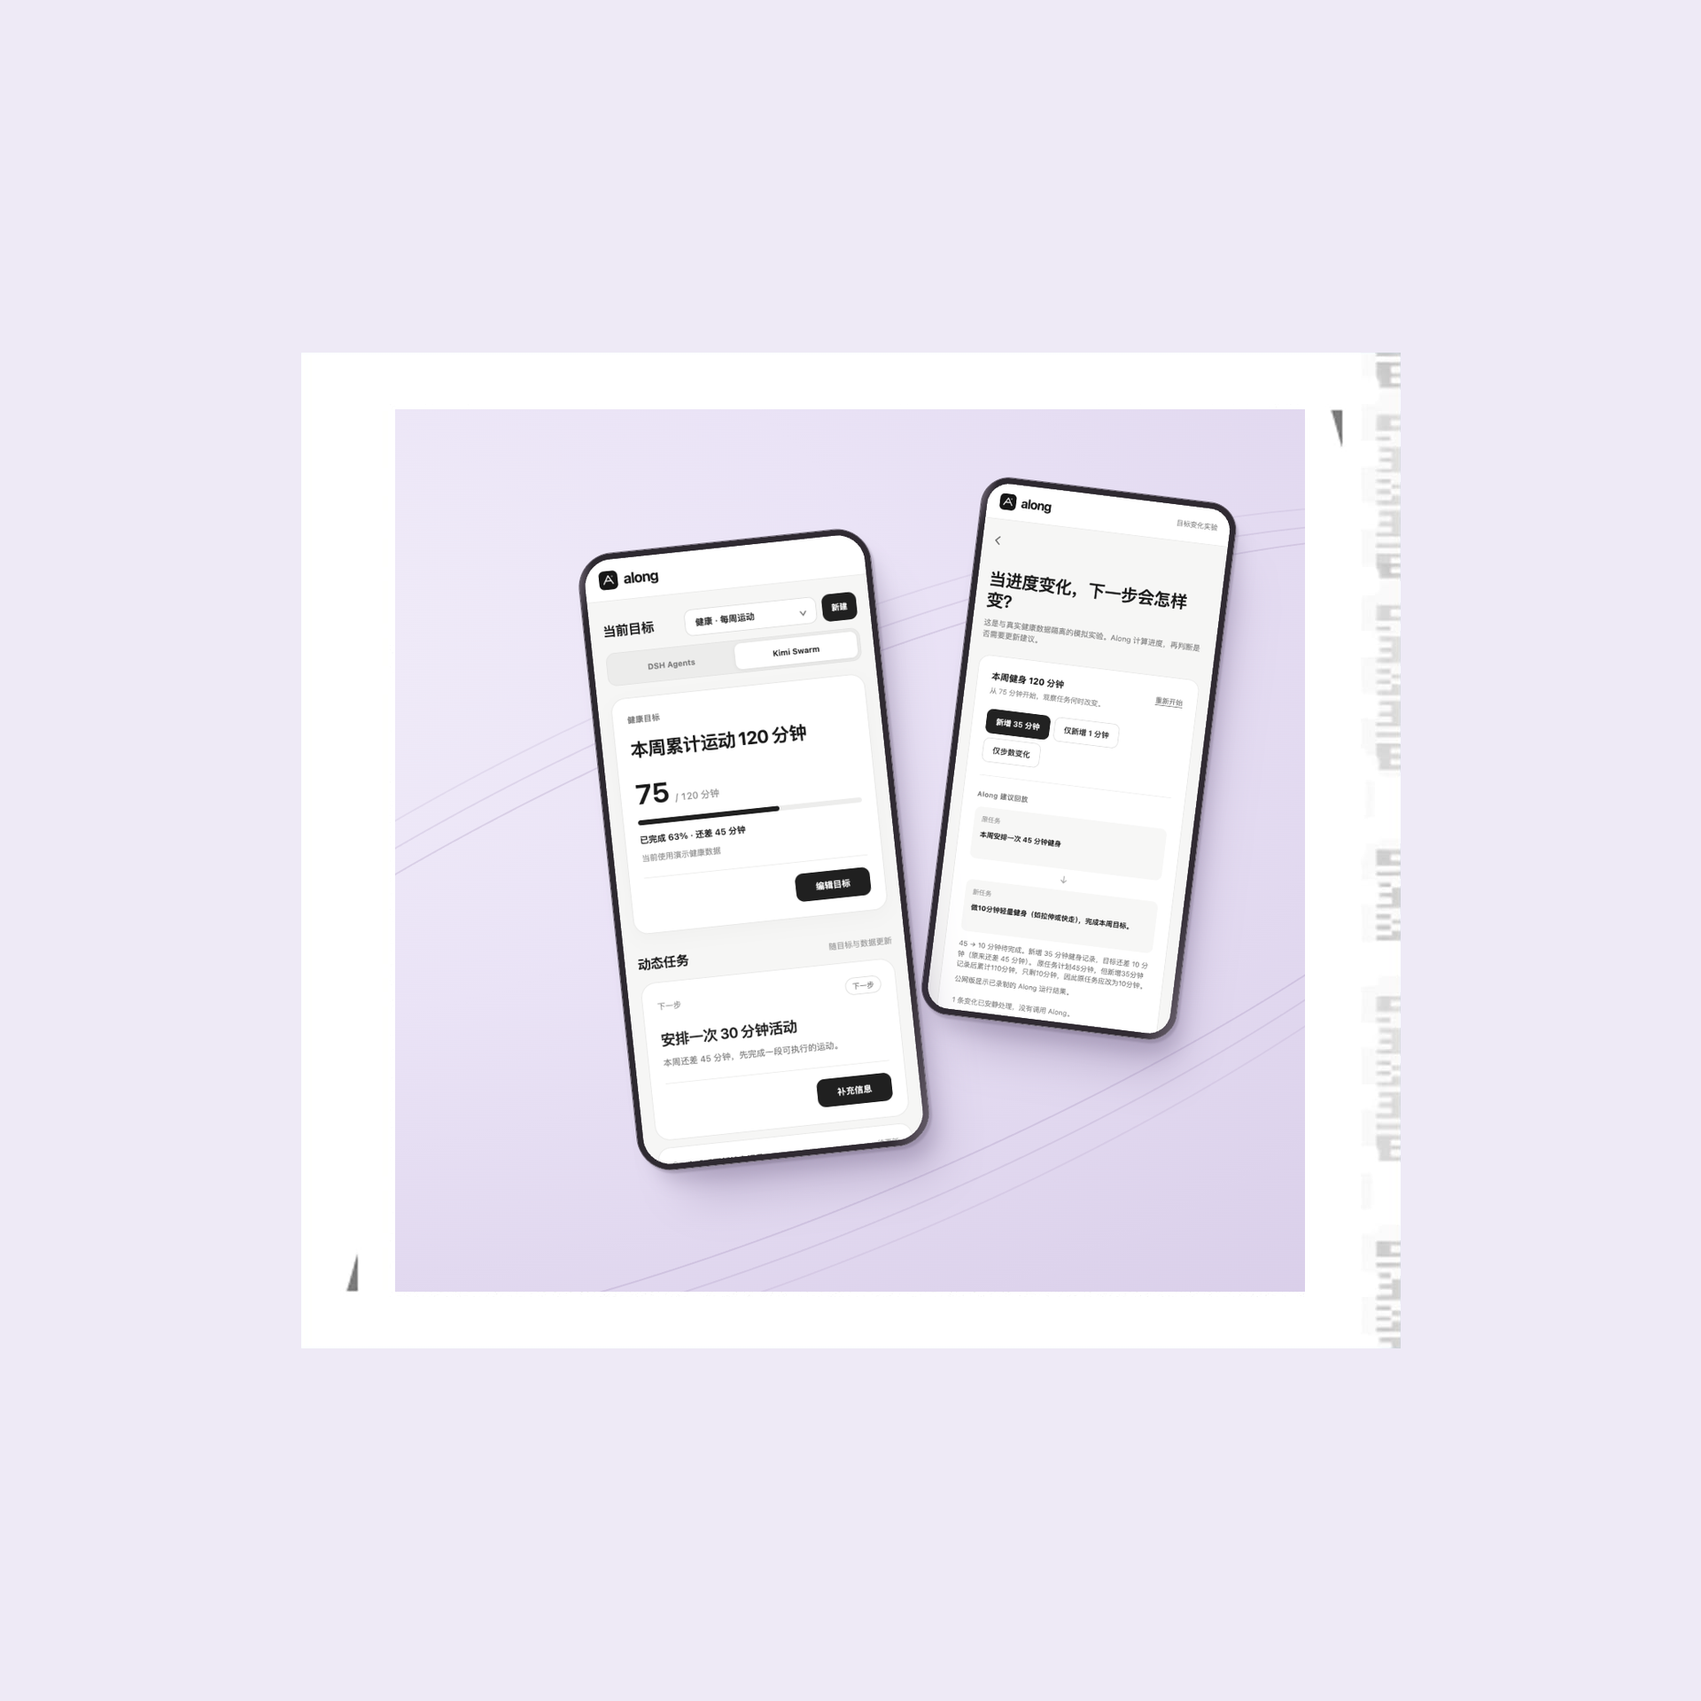
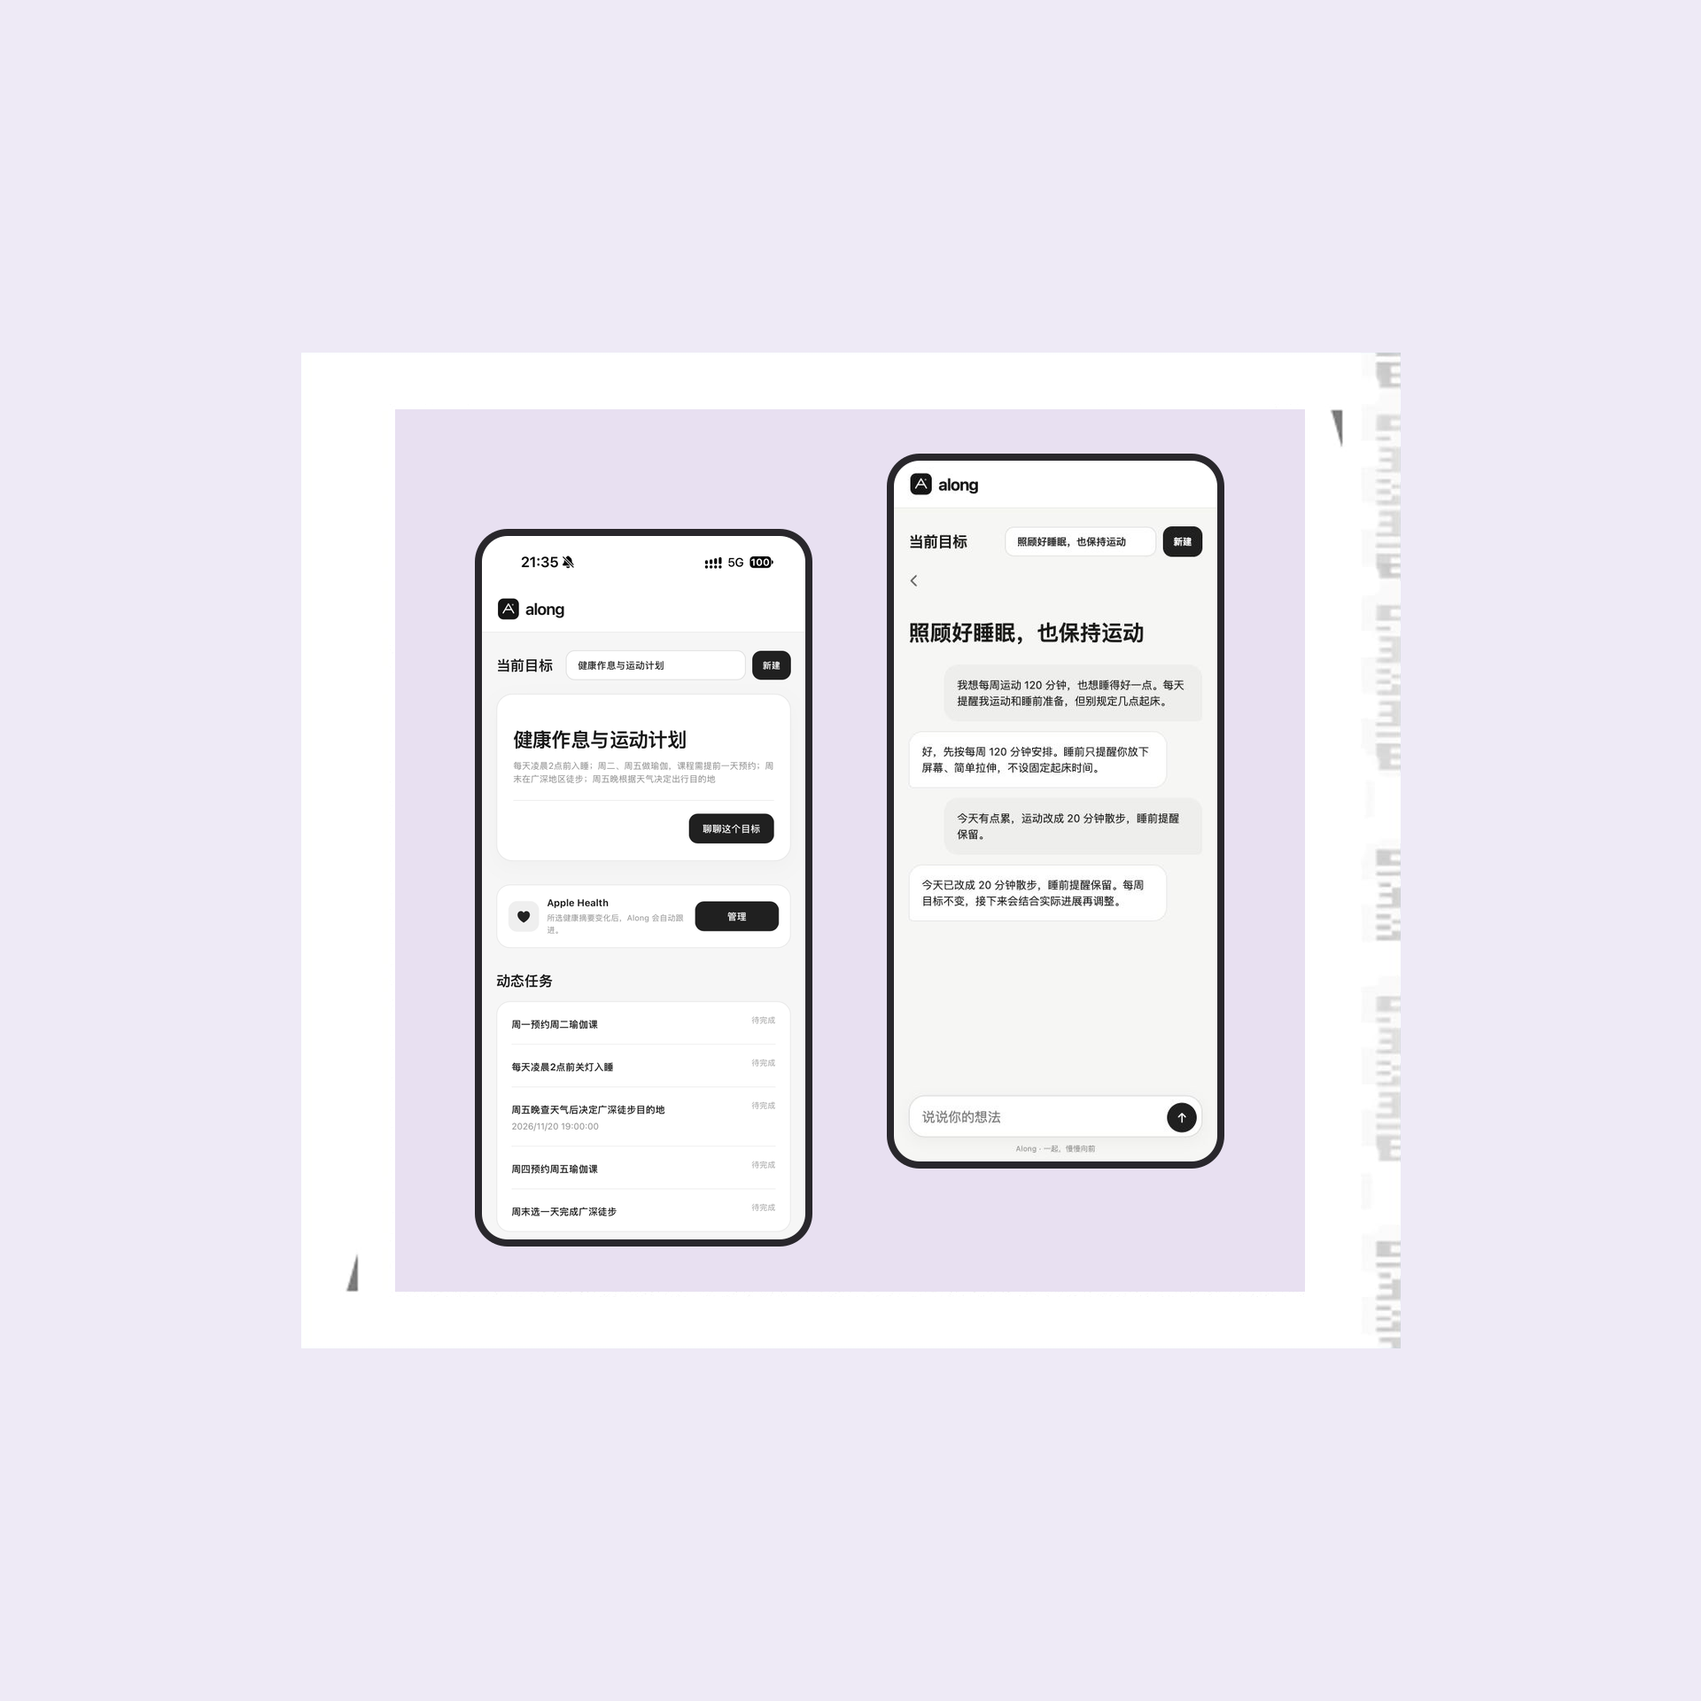
feat(along): refresh case study with current agent flows and iPhone screenshots (#9)

Changed region(s): [[0.2812, 0.25, 0.75, 0.75]]

diff --git a/layouts/ux-web3/along.html b/layouts/ux-web3/along.html
@@ -4,11 +4,11 @@
 {{ $style := resources.Get "css/along.css" | minify | fingerprint }}
 <link rel="stylesheet" href="{{ $style.RelPermalink }}">
 
-<section class="site-work-detail">
+<section class="site-work-detail along-case">
   {{ partial "work/detail-front.html" (dict
     "backgroundImage" "/images/ux-web3/along/hero.webp"
     "title" "A Personal Goal Agent"
-    "description" "Along revisits a goal as your week unfolds. You decide which changes to make to your plan."
+    "description" "A conversation becomes a plan. Along follows what changes and brings you back when it is time to act."
     "buttonHref" "#problem-space"
     "buttonLabel" "Read the Case"
   ) }}
@@ -17,55 +17,49 @@
     <div class="container">
       <div class="site-work-detail-page-header">
         <h3>Problem Space</h3>
-        <p>You’ve planned two walks. One is a reminder to catch up on exercise. The other is a date with a friend. By the time you’ve met your weekly goal, only one of those walks has lost its purpose.</p>
-        <p>I designed Along to keep track of why a task exists. It can suggest a change, explain what prompted it, and leave the decision with you.</p>
+        <p>“I want to move more and sleep better” sounds simple. Keeping it going means noticing what changed: a tiring day, a workout already done, or a reminder that no longer fits.</p>
+        <p>I designed Along around that continuing conversation. The goal keeps its context, the next action can change, and the person can correct the plan in their own words.</p>
       </div>
-    </div>
-  </div>
-
-  <div id="walks" class="site-work-detail-page-template">
-    <div class="container">
-      <div class="site-work-detail-page-template-header">
-        <h3>01. Which Walk Would You Cancel?</h3>
-        <p>In this simulated week, four exercise sessions add up to 195 minutes against a goal of 180. Along proposes removing the catch-up reminder. The person can accept the edit or keep the original tasks.</p>
-      </div>
-      <fieldset class="along-review site-work-detail-page-template-chart-with-content-text">
-        <legend class="sr-only">Plan review</legend>
-        <input id="along-before" type="radio" name="along-review" checked>
-        <label for="along-before">Proposed change</label>
-        <input id="along-after" type="radio" name="along-review">
-        <label for="along-after">After acceptance</label>
-        <figure class="along-before site-work-detail-page-template-chart">
-          <a href="/images/ux-web3/along/review-proposal.webp" aria-label="Open original plan proposal screenshot"><img src="/images/ux-web3/along/review-proposal.webp" alt="Along offers to remove a catch-up exercise reminder after the weekly goal has been met." width="714" height="928" loading="lazy" decoding="async"></a>
-          <figcaption>The proposal explains the 195-minute total and identifies the reminder it would remove.</figcaption>
-        </figure>
-        <figure class="along-after site-work-detail-page-template-chart">
-          <a href="/images/ux-web3/along/review-applied.webp" aria-label="Open original updated task list screenshot"><img src="/images/ux-web3/along/review-applied.webp" alt="The updated task list still shows the planned weekend walk with a friend." width="714" height="542" loading="lazy" decoding="async"></a>
-          <figcaption>After acceptance, the catch-up reminder is gone. The weekend walk with a friend still has its place in the plan.</figcaption>
-        </figure>
-      </fieldset>
     </div>
   </div>
 
   <div class="site-work-detail-page-template">
     <div class="container">
       <div class="site-work-detail-page-template-header">
-        <h3>02. Inside the Prototype</h3>
-        <h4>From a goal to the next ten minutes</h4>
-        <p>You can describe a new goal in your own words, including your timing and preferences. The exercise demo starts with a goal of 120 minutes of movement this week.</p>
-        <p>With 75 minutes logged, the plan has 45 minutes left. Add a 35-minute workout and Along shortens the suggested walk to ten minutes.</p>
+        <h3>01. Keep the Goal, Change the Next Step</h3>
+        <p>“I’m tired today. Make it a twenty-minute walk, but keep the bedtime reminder.” A change like this belongs in the conversation where the goal began.</p>
+        <p>The current app turns an explicit request into a goal and tasks. Changes take effect after programmatic checks, and the person uses chat to correct them. Saying “I haven’t been sleeping well” starts a conversation; it does not automatically create a goal.</p>
       </div>
       {{ partial "work/two-chart.html" (dict
         "class" "along-screens"
         "images" (slice
-          (dict "src" "/images/ux-web3/along/goal-draft.webp" "alt" "Early iPhone build showing a blank custom goal and a prompt to start with one sentence." "captionHtml" "Goal entry · Early iPhone build · <a href='/images/ux-web3/along/goal-draft.webp'>Open screenshot</a>")
-          (dict "src" "/images/ux-web3/along/replan.webp" "alt" "Exercise replay comparing the original 45-minute walk with a 10-minute suggestion after a workout." "captionHtml" "Exercise replay · Web prototype with sample data · <a href='/images/ux-web3/along/replan.webp'>Open screenshot</a>")
+          (dict "src" "/images/ux-web3/along/current-chat.webp" "alt" "Current Along chat interface showing a request to change today's exercise to a twenty-minute walk while keeping the bedtime reminder." "captionHtml" "Change the plan in chat · Current app UI with a sample conversation · <a href='/images/ux-web3/along/current-chat.webp'>Open screenshot</a>")
+          (dict "src" "/images/ux-web3/along/iphone-goal-plan.webp" "alt" "Actual Along iPhone goal page showing a sleep and exercise plan, an authorized Apple Health connection, yoga class booking and a weather check before a weekend hike." "captionHtml" "A plan for the week · Actual iPhone screenshot, November 16 · <a href='/images/ux-web3/along/iphone-goal-plan.webp'>Open screenshot</a>")
         )
       ) }}
       <div class="site-work-detail-page-template-header">
-        <h4>What the agent gets to see</h4>
-        <p>On iPhone, the person chooses which Apple Health summaries to share. Along sends the selected observations and the current plan to a paired Mac for review. The web demo uses sample data.</p>
-        <p>In one iPhone check, the observations matched the last review. Along kept all three existing tasks.</p>
+        <p>The chat screen is a browser capture of the November 16 app code with a staged conversation. The goal screen is an actual iPhone capture: yoga bookings, a sleep routine and a weather check before a weekend hike sit together in one plan.</p>
+      </div>
+    </div>
+  </div>
+
+  <div id="reminders" class="site-work-detail-page-template">
+    <div class="container">
+      <div class="site-work-detail-page-template-header">
+        <h3>02. A Reminder That Remembers the Request</h3>
+        <p>The bedtime reminder says to dim the lights, put down the screen and wind down at your own pace. It also preserves a preference: no fixed lights-out or wake-up time. The exercise reminder keeps the next step small: twenty minutes, at your own pace.</p>
+      </div>
+      {{ partial "work/two-chart.html" (dict
+        "class" "along-notifications"
+        "images" (slice
+          (dict "src" "/images/ux-web3/along/notification-sleep.webp" "alt" "Along iPhone notification reminding the person to dim the lights, put down the screen and prepare for sleep without a fixed bedtime or wake-up time." "captionHtml" "Bedtime preparation · Actual iPhone notification, November 11 · <a href='/images/ux-web3/along/notification-sleep.webp'>Open crop</a>")
+          (dict "src" "/images/ux-web3/along/notification-movement.webp" "alt" "Along iPhone notification saying there are twenty minutes of exercise planned today, to begin at the person's own pace." "captionHtml" "Today's movement · Actual iPhone notification, November 11 · <a href='/images/ux-web3/along/notification-movement.webp'>Open crop</a>")
+        )
+      ) }}
+      <div class="site-work-detail-page-template-header">
+        <h4>Getting back to the action matters too</h4>
+        <p>The latest version connects a scheduled notification to its task. In the iOS Simulator, a reminder arrived while the app was in the background; tapping it opened the matching task. An upgrade replay also checked that a reminder scheduled by the old app still opened its saved task after the update.</p>
+        <p>The real iPhone notifications above come from an earlier build. The latest app has been installed on the paired iPhone and its saved tasks reopened there; the latest notification delivery and tap-through flow still needs a device check. Remote push delivery while the app is suspended also remains unverified.</p>
       </div>
     </div>
   </div>
@@ -73,15 +67,51 @@
   <div class="site-work-detail-page-template">
     <div class="container">
       <div class="site-work-detail-page-template-header">
-        <h3>03. Agent Evaluation</h3>
-        <h4>What did Along know at the time?</h4>
-        <p>I shaped an evaluation around 54 synthetic decision cases across exercise, savings and Cantonese practice. Each replay gives the agent only the information available when it has to decide what to do next.</p>
-        <p>In the Cantonese listening test, a learner understands four of five new phrases and answers one of three aloud. Change one detail and the next practice session should change with it.</p>
+        <h3>03. Follow Progress Without Another Prompt</h3>
+        <p>Completing a workout should not require a second conversation just to update the plan. On iPhone, the person chooses which Apple Health summaries Along can use. Relevant changes can then trigger a review of an existing goal.</p>
+        <p>In an isolated test with a real model and synthetic health summaries, the agent removed an outdated “45 minutes still to do” task after reading the new exercise total. The goal stayed in place, and the validated task change took effect automatically.</p>
       </div>
       {{ partial "work/two-text.html" (dict "columns" (slice
-        (dict "title" "Subtitles off" "paragraphs" (slice "The learner understood the audio. Spend the next session practising a spoken reply."))
-        (dict "title" "Subtitles on" "paragraphs" (slice "Reading may have helped. Try new phrases from a different speaker with the text hidden."))
+        (dict "title" "Keep ordinary changes quiet" "paragraphs" (slice
+          "New facts can update the goal without becoming a notification. A review can keep the plan, change a task or ask for missing information. Reaching a scheduled time does not mean the person completed the action."
+        ))
+        (dict "title" "Respect the phone’s limits" "paragraphs" (slice
+          "Raw HealthKit samples stay on the phone. Selected summaries are queued for upload, including during background opportunities granted by iOS. Natural health changes, locked-screen wake-up and offline recovery still need end-to-end device validation."
+        ))
       )) }}
+    </div>
+  </div>
+
+  <div class="site-work-detail-page-template">
+    <div class="container">
+      <div class="site-work-detail-page-template-header">
+        <h3>04. Give the Agent Context and Boundaries</h3>
+        <p>The phone handles conversation, health permissions and reminders. A paired Mac stores the goal and runs Along Agent on DeepSeek Harness. A Router connects new input to the right work; a Worker reads the relevant context and proposes structured changes. Code checks ownership, scope and versions before anything becomes part of the plan.</p>
+      </div>
+      {{ partial "work/two-text.html" (dict "columns" (slice
+        (dict "title" "Remember what should carry forward" "paragraphs" (slice
+          "Scheduled maintenance extracts lasting preferences from conversation. Valid memories can inform later planning across goals. Asking Along to forget withdraws a memory from future use while preserving the conversation history."
+        ))
+        (dict "title" "Continue only what was delegated" "paragraphs" (slice
+          "A daily reminder needs an explicit daily instruction. When a task comes due, the Mac can review it and schedule the next occurrence within that instruction. Cancelling, completing or changing it to a one-off ends the repeat."
+        ))
+      )) }}
+      <div class="site-work-detail-page-template-header">
+        <p>Local storage does not mean local inference: the configured model and memory services process the context sent to them. Memory extraction and recall have passed isolated checks; long-term usefulness in daily life is still being evaluated.</p>
+      </div>
+    </div>
+  </div>
+
+  <div class="site-work-detail-page-template">
+    <div class="container">
+      <div class="site-work-detail-page-template-header">
+        <h3>05. Evaluate the Decision and the Return Journey</h3>
+        <p>My role spans the product behavior, prompts and context, evaluation scenarios, and acceptance of the resulting experience. An earlier evaluation set covered 54 synthetic decisions across exercise, savings and Cantonese practice. Each replay gave the agent only what was known at the decision point.</p>
+        <p>For Cantonese practice, understanding a phrase with subtitles and understanding it without them should lead to different next steps. For a reminder, a successful run is only part of the evidence: did it arrive, and did tapping it return to the intended task?</p>
+        <h4>Current stage</h4>
+        <p>Along is a personal prototype in use on a paired iPhone and Mac. Chat, task updates, scheduled reviews and memory have working implementations, with different levels of device validation. The public web demo can be explored with sample data; the paired agent flow requires the Mac service. Full retrospectives and automatic skill publishing remain future work.</p>
+        <p>Updated November 16, 2026 · <a href="https://github.com/artstur/Along/tree/92d575ee79fa55eded3382e904788d077460ef5a">App and Host source</a> · <a href="https://github.com/artstur/along-superagent/tree/73534d1e5fad85ffe3f33c9875a9296b2c61515a">Agent source</a> · <a href="https://github.com/artstur/along-superagent/blob/73534d1e5fad85ffe3f33c9875a9296b2c61515a/docs/along/009-current-runtime.md">Runtime and validation notes</a></p>
+      </div>
     </div>
   </div>
 </section>

diff --git a/assets/css/along.css b/assets/css/along.css
@@ -1,19 +1,10 @@
-/* The case-study layout uses the shared work styles. These rules size the
-   portrait screenshots and switch between the two recorded plan states. */
-.along-review { min-width: 0; padding-inline: 10px; }
-.along-review label { margin: 0 1rem 0 .2rem; padding-block: .5rem; cursor: pointer; }
-.along-review input { accent-color: var(--accent-color); }
-.along-review figure { margin: 0; }
-.along-review input:first-of-type:checked ~ .along-after,
-.along-review input:last-of-type:checked ~ .along-before { display: none; }
-.along-review figure > a {
-  display: grid;
-  place-items: center;
-  height: 24rem;
-  padding: .75rem;
-  background: #f7f5fa;
+/* Typography and spacing come from the shared work templates. */
+.along-case .site-work-detail-front { background-attachment: scroll; }
+.along-screens img {
+  display: block;
+  max-height: 38rem;
+  object-fit: contain;
 }
-.along-review figure img { width: 100%; height: 100%; min-height: 0; margin: 0; object-fit: contain; }
-.along-review figcaption { margin-top: .5rem; }
-.along-screens img { max-height: 28rem; object-fit: contain; }
-.along-screens a { color: inherit; text-decoration: underline; }
+.along-screens a,
+.along-notifications a { color: inherit; text-decoration: underline; }
+.along-notifications { align-items: flex-start; }

diff --git a/content/work/ux-web3/along.md b/content/work/ux-web3/along.md
@@ -1,12 +1,12 @@
 ---
 title: "Along | Celia Shuyue Li"
-description: "Designing a personal goal agent that can revise a reminder, keep a commitment, and ask before changing a plan."
+description: "Designing a personal goal agent that turns conversation into a changing plan, follows health updates, and brings you back when it is time to act."
 type: 'ux-web3'
 layout: 'along'
 accent_color: '#705883'
 accent_surface_color: '#eae3f2'
 work_header_title: "Along"
 work_header_desc_class: 'site-work-header-project-desc'
-work_header_desc_html: 'Personal goal agent for iPhone and web · 2026 · <a href="https://artstur.github.io/along/">Try the web demo</a> · <a href="https://github.com/artstur/along">View on GitHub</a>'
+work_header_desc_html: 'Personal goal agent for iPhone and web · 2026 · <a href="https://artstur.github.io/along/">Try the web demo</a> · <a href="https://github.com/artstur/Along">View on GitHub</a>'
 work_header_role: "Role: Product Design & Agent Evaluation"
 ---
